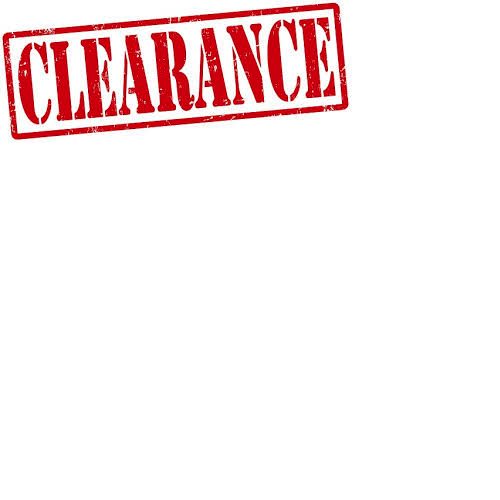
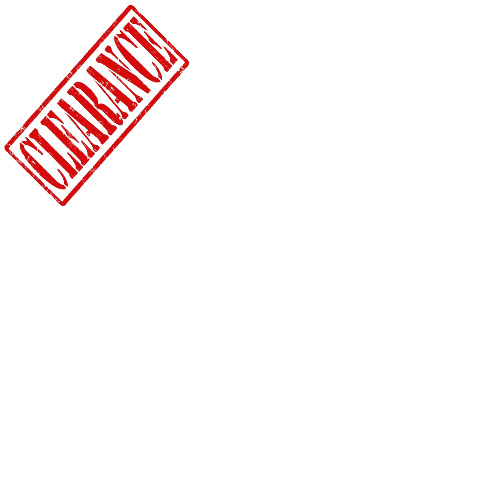
clearance menu

Changed region(s): [[0.0, 0.0, 0.72, 0.42]]

diff --git a/src/components/Item.js b/src/components/Item.js
@@ -255,6 +255,7 @@ class Item extends Component {
       if(tag.name.toLowerCase() === targetCode.toLowerCase()){
         this.bool = true;
       }
+      return true;
     });
     return this.bool;
   }
@@ -289,15 +290,10 @@ class Item extends Component {
               <div className="row mt-2  mb-2" id="list-tab" role="tablist">
                 {this.content.map((content, index)=>{
 
-                  return <a onClick={()=>this.setMainPic(index) } ref={index===this.state.mainPic?this.firstRef:"none"} onKeyUp={(e)=>this.handleKeyPress(e)} key={`${index}`} className={'list-group-item list-group-item-action col-md-2 col-3 p-1 rounded-40 border '+(index===this.state.mainPic?` border-primary bg-dark text-light`:``)} id={`list-${content.name}-list`}  href={`#${content.name}`}  aria-controls={`${content.name}`} >
+                  return <a onClick={()=>this.setMainPic(index) } ref={index===this.state.mainPic?this.firstRef:"none"} onKeyUp={(e)=>this.handleKeyPress(e)} key={`${index}`} className={'item-img-holder list-group-item list-group-item-action col-md-2 col-3 p-1 rounded-40 border '+(index===this.state.mainPic?` border-primary bg-dark text-light`:``)+ (content.tags && this.hasTag(content, "clearance")?" bg-danger":"")} id={`list-${content.name}-list`}  href={`#${content.name}`}  aria-controls={`${content.name}`} >
                       <div className='text-center'>
                         {this.unlinkify(content.name)}
                       </div>
-                      {content.tags && this.hasTag(content, "clearance")?
-                        <img className='item-img-overlay' src={`${this.props.commonVars.awsPath}/image/!icon/clearance.png`} />
-                        :
-                        <div></div>
-                      }
                     </a>
                 })}
 
@@ -311,7 +307,7 @@ class Item extends Component {
                     <img id="item-img-main" onLoad = {this.imageSetup.bind(this)}  ref={this.imageRef} onMouseMove={this._onMouseMove.bind(this)} onMouseEnter={()=> this.setZoomPopup(true)} onMouseLeave={()=>this.setZoomPopup(false)} className="img-fluid border d-none d-md-block" src={`${this.content[this.state.mainPic].image}`} alt={this.content[this.state.mainPic].name}/>
                     <img id="item-img-main" className="img-fluid border d-block d-md-none" src={`${this.content[this.state.mainPic].image}`} alt={this.content[this.state.mainPic].name}/>
                     {this.content[this.state.mainPic].tags && this.hasTag(this.content[this.state.mainPic], "clearance")?
-                      <img className='item-img-overlay' src={`${this.props.commonVars.awsPath}/image/!icon/clearance.png`} />
+                      <img className='item-img-overlay' src={`${this.props.commonVars.awsPath}/image/!icon/clearance.png`} alt='clearance'/>
                       :
                       <div></div>
                     }

diff --git a/src/components/Search.js b/src/components/Search.js
@@ -46,7 +46,7 @@ class Type extends Component {
           name: this.unPicturify(item.name),
           image: `${this.props.commonVars.awsPath}/image/${item.category}/${item.type}/${item.itemGroup}/${item.name}`,
           href: `/${item.category}/${item.type}/${item.itemGroup}#${this.unPicturify(item.name)}`,
-
+          tags: item.tags,
         });
       }
       return item;
@@ -60,6 +60,7 @@ class Type extends Component {
       if(tag.name.toLowerCase() === targetCode.toLowerCase()){
         this.bool = true;
       }
+      return true;
     });
     return this.bool;
   }
@@ -84,8 +85,19 @@ class Type extends Component {
   linkify(str){
     return str.replace(/ /g, '_');
   }
+  checkRefresh(){
+    if(this.searchCode)
+    this.searchParams = new URLSearchParams(this.props.location.search);
+    if(this.searchCode!== this.searchParams.get("itemCode")){
+      this.searchCode = this.searchParams.get("itemCode");
+      this.props.commonVars.setSearchCurrent(this.searchCode);
+    }
+    this.filteredContent = [];
+    this.filterContent(this.searchCode);
+  }
 
   render() {
+      this.checkRefresh();
       return (
         <div id="type">
           <div className='row'>
@@ -110,7 +122,11 @@ class Type extends Component {
 
                     return <Link key={`link2-${index}`} className='border bg-light col-3' to={`/inventory${items.href}`}>
                         <img className="card-img-top " src={`${items.image}`} alt={items.name}/>
-
+                        {items.tags && this.hasTag(items, "clearance")?
+                          <img className='item-img-overlay' src={`${this.props.commonVars.awsPath}/image/!icon/clearance.png`} alt='clearance'/>
+                          :
+                          <div></div>
+                        }
                         <div className='row justify-content-center'>
                           <div className="text-muted text-center">{this.unlinkify(items.name)}</div>
                         </div>

diff --git a/src/data/directory.js b/src/data/directory.js
@@ -309,6 +309,24 @@ export default [
 				 tags: null,
 			},
 			{
+				 name: 'clearance.png',
+				 info: null,
+				 seating: null,
+				 seat: null,
+				 frame_color: null,
+				 back_color: null,
+				 tags: null,
+			},
+			{
+				 name: 'clearance_small.png',
+				 info: null,
+				 seating: null,
+				 seat: null,
+				 frame_color: null,
+				 back_color: null,
+				 tags: null,
+			},
+			{
 				 name: 'logo-top.png',
 				 info: null,
 				 seating: null,
@@ -2743,10 +2761,38 @@ export default [
 				 name: 'Color_Options',
 				 dirs: [
 					{
+						 name: 'Esprit',
+						 dirs: [
+							{
+								 name: 'Esprit.png',
+								 info: "",
+								 seating: null,
+								 seat: null,
+								 frame_color: null,
+								 back_color: null,
+								 tags: null,
+							},
+						],
+					},
+					{
 						 name: 'New_Soho',
 						 dirs: [
 							{
 								 name: 'New_Soho.png',
+								 info: "",
+								 seating: null,
+								 seat: null,
+								 frame_color: null,
+								 back_color: null,
+								 tags: null,
+							},
+						],
+					},
+					{
+						 name: 'Symphony_Classic',
+						 dirs: [
+							{
+								 name: 'Symphony_Classic.png',
 								 info: "",
 								 seating: null,
 								 seat: null,

diff --git a/src/components/Type.js b/src/components/Type.js
@@ -103,6 +103,7 @@ class Type extends Component {
       if(tag.name.toLowerCase() === targetCode.toLowerCase()){
         this.bool = true;
       }
+      return true;
     });
     return this.bool;
   }
@@ -169,7 +170,7 @@ class Type extends Component {
                     <div className='item-img-holder'>
                       <img className="card-img-top " src={`${items.image}`} alt={items.name}/>
                       {items.tags && this.hasTag(items, "clearance")?
-                        <img className='item-img-overlay' src={`${this.props.commonVars.awsPath}/image/!icon/clearance.png`} />
+                        <img className='item-img-overlay' src={`${this.props.commonVars.awsPath}/image/!icon/clearance.png`} alt='clearance'/>
                         :
                         <div></div>
                       }

diff --git a/src/components/Navbar.js b/src/components/Navbar.js
@@ -13,8 +13,6 @@ class Navbar extends Component {
     this.state={
       isOpen : arr,
     };
-
-
   }
 
   handleDropdown(index, bool){
@@ -35,6 +33,7 @@ class Navbar extends Component {
 
 
   render() {
+
     return (
       <div id="navbar" className={this.props.navbarCollapse?"":"col-12"}>
           {this.props.navCollapse?
@@ -60,6 +59,10 @@ class Navbar extends Component {
 
                     <div className="col btn bg-light text-md" >
                       <Link to={`/Contact`} className='text-muted'> Contact
+                      </Link>
+                    </div>
+                    <div className="col btn bg-light text-md" >
+                      <Link to={`/Search?itemCode=Clearance`} className='text-muted'> Clearance
                       </Link>
 
                     </div>

diff --git a/src/App.css b/src/App.css
@@ -167,3 +167,11 @@ nav {
   top: 0px;
   pointer-events: none;
 }
+.item-img-overlay-small{
+  position: absolute;
+  width: 100%;
+  height: 100%;
+  left: 0px;
+  top: 0px;
+  pointer-events: none;
+}

diff --git a/README.md b/README.md
@@ -37,3 +37,12 @@ dropdown sizing is wrong
 √arrow in history is weird
 √at items, when sidebar is up still see highlighted item name tab
 IE button group at home page is messed up
+
+
+JSON attributes
+  info: some info to be displayed, ie cushion in the picture
+  seat:
+  seating: all seating options available
+  frame_color: color of the frame, metal
+  back_color: color of the back/seat
+  tags: assosiated search tags, i.e. "clearance"
